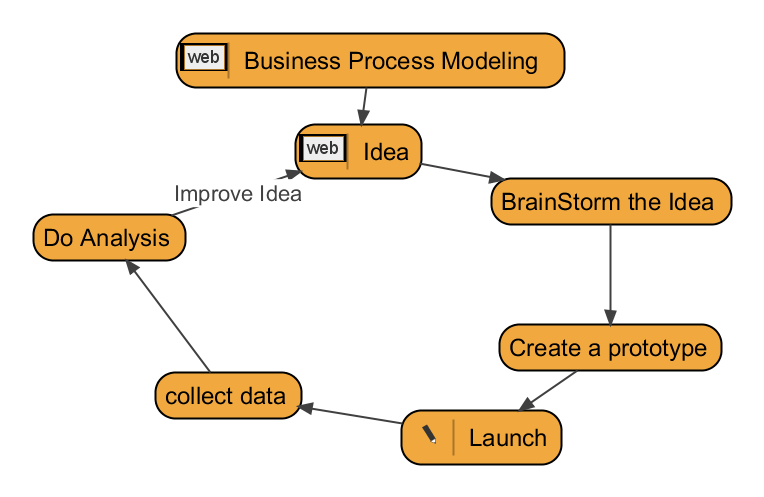
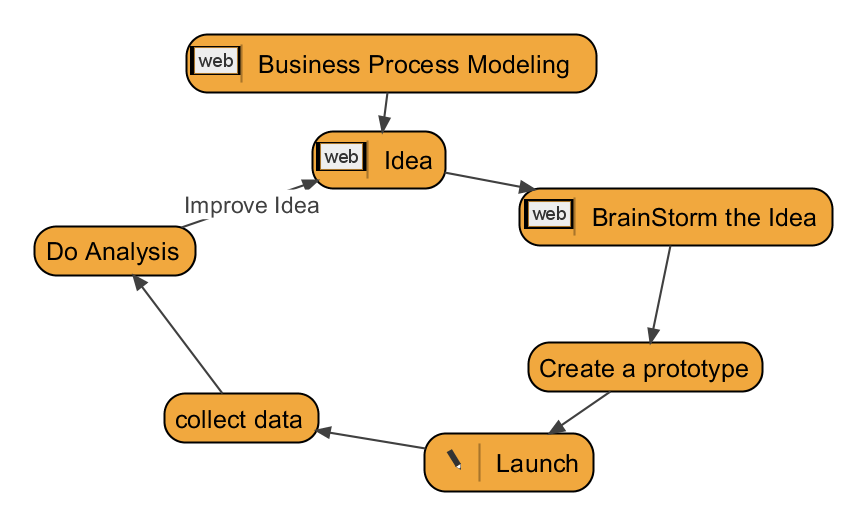
smtng
else

Changed region(s): [[0.0301, 0.1811, 0.9634, 0.9356], [0.2107, 0.0604, 0.7526, 0.1811], [0.1806, 0.5734, 0.2107, 0.6338]]

diff --git a/index.html b/index.html
@@ -26,13 +26,13 @@ display:none;
 }
 </style>
 </head><body>
-<div class="example2"><img class="map" src="index.png" width="764.0" height="497.0" usemap="#vuemap"><map name="vuemap"> <area href="https://en.wikipedia.org/wiki/Business_process_modeling" target="_blank"  id="node0" shape="rect" coords="176,36,564,90"></area>
- <area href="https://en.wikipedia.org/wiki/Business_process_modeling#Modeling_and_simulation" target="_blank"  id="node1" shape="rect" coords="294,126,420,180"></area>
- <area   id="node2" shape="rect" coords="490,180,730,226"></area>
- <area   id="node3" shape="rect" coords="498,326,720,372"></area>
+<div class="example2"><img class="map" src="index.png" width="868.0" height="526.0" usemap="#vuemap"><map name="vuemap"> <area href="https://en.wikipedia.org/wiki/Business_process_modeling" target="_blank"  id="node0" shape="rect" coords="186,38,596,95"></area>
+ <area href="https://en.wikipedia.org/wiki/Business_process_modeling#Modeling_and_simulation" target="_blank"  id="node1" shape="rect" coords="311,133,444,190"></area>
+ <area href="https://en.wikipedia.org/wiki/Activity_diagram" target="_blank"  id="node2" shape="rect" coords="518,190,831,247"></area>
+ <area   id="node3" shape="rect" coords="526,344,761,393"></area>
  <area  class="tooltip" title="Marketing and 
-promotion"  id="node4" shape="rect" coords="400,412,560,466"></area>
- <area   id="node5" shape="rect" coords="154,374,300,420"></area>
- <area   id="node6" shape="rect" coords="32,216,184,262"></area>
+promotion"  id="node4" shape="rect" coords="423,435,592,493"></area>
+ <area   id="node5" shape="rect" coords="162,395,317,444"></area>
+ <area   id="node6" shape="rect" coords="33,228,194,277"></area>
 
 </map></div></body></html>
